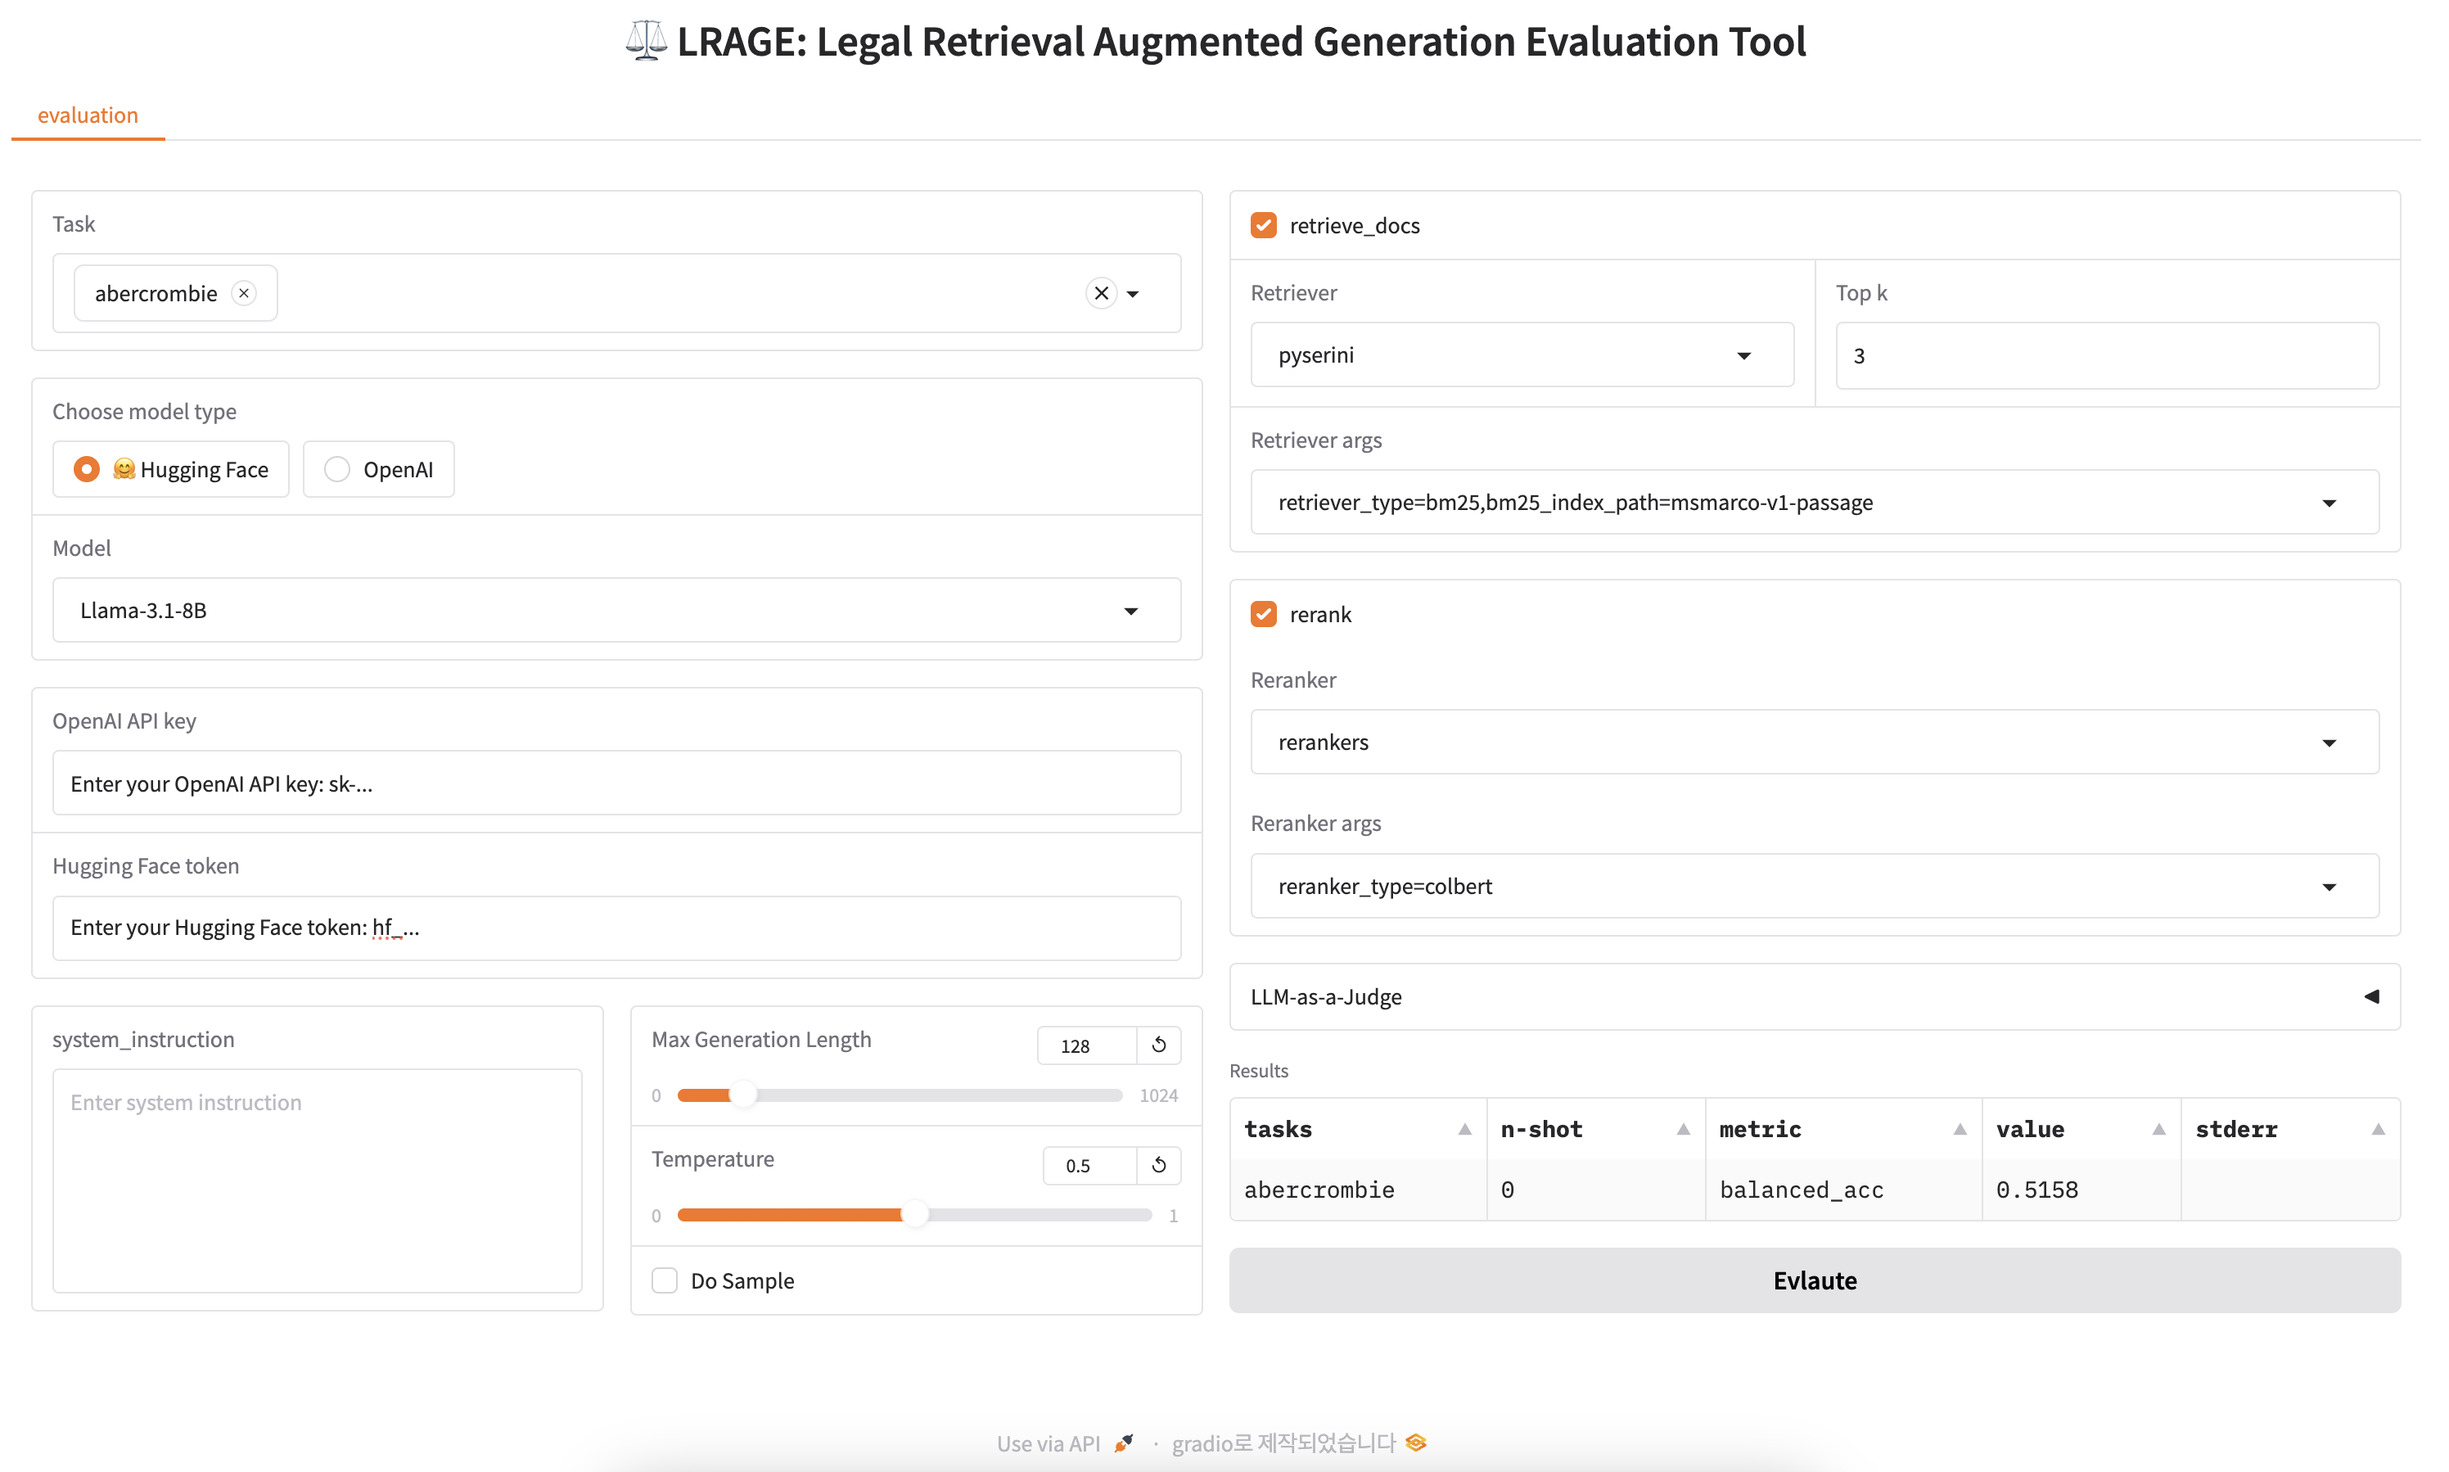
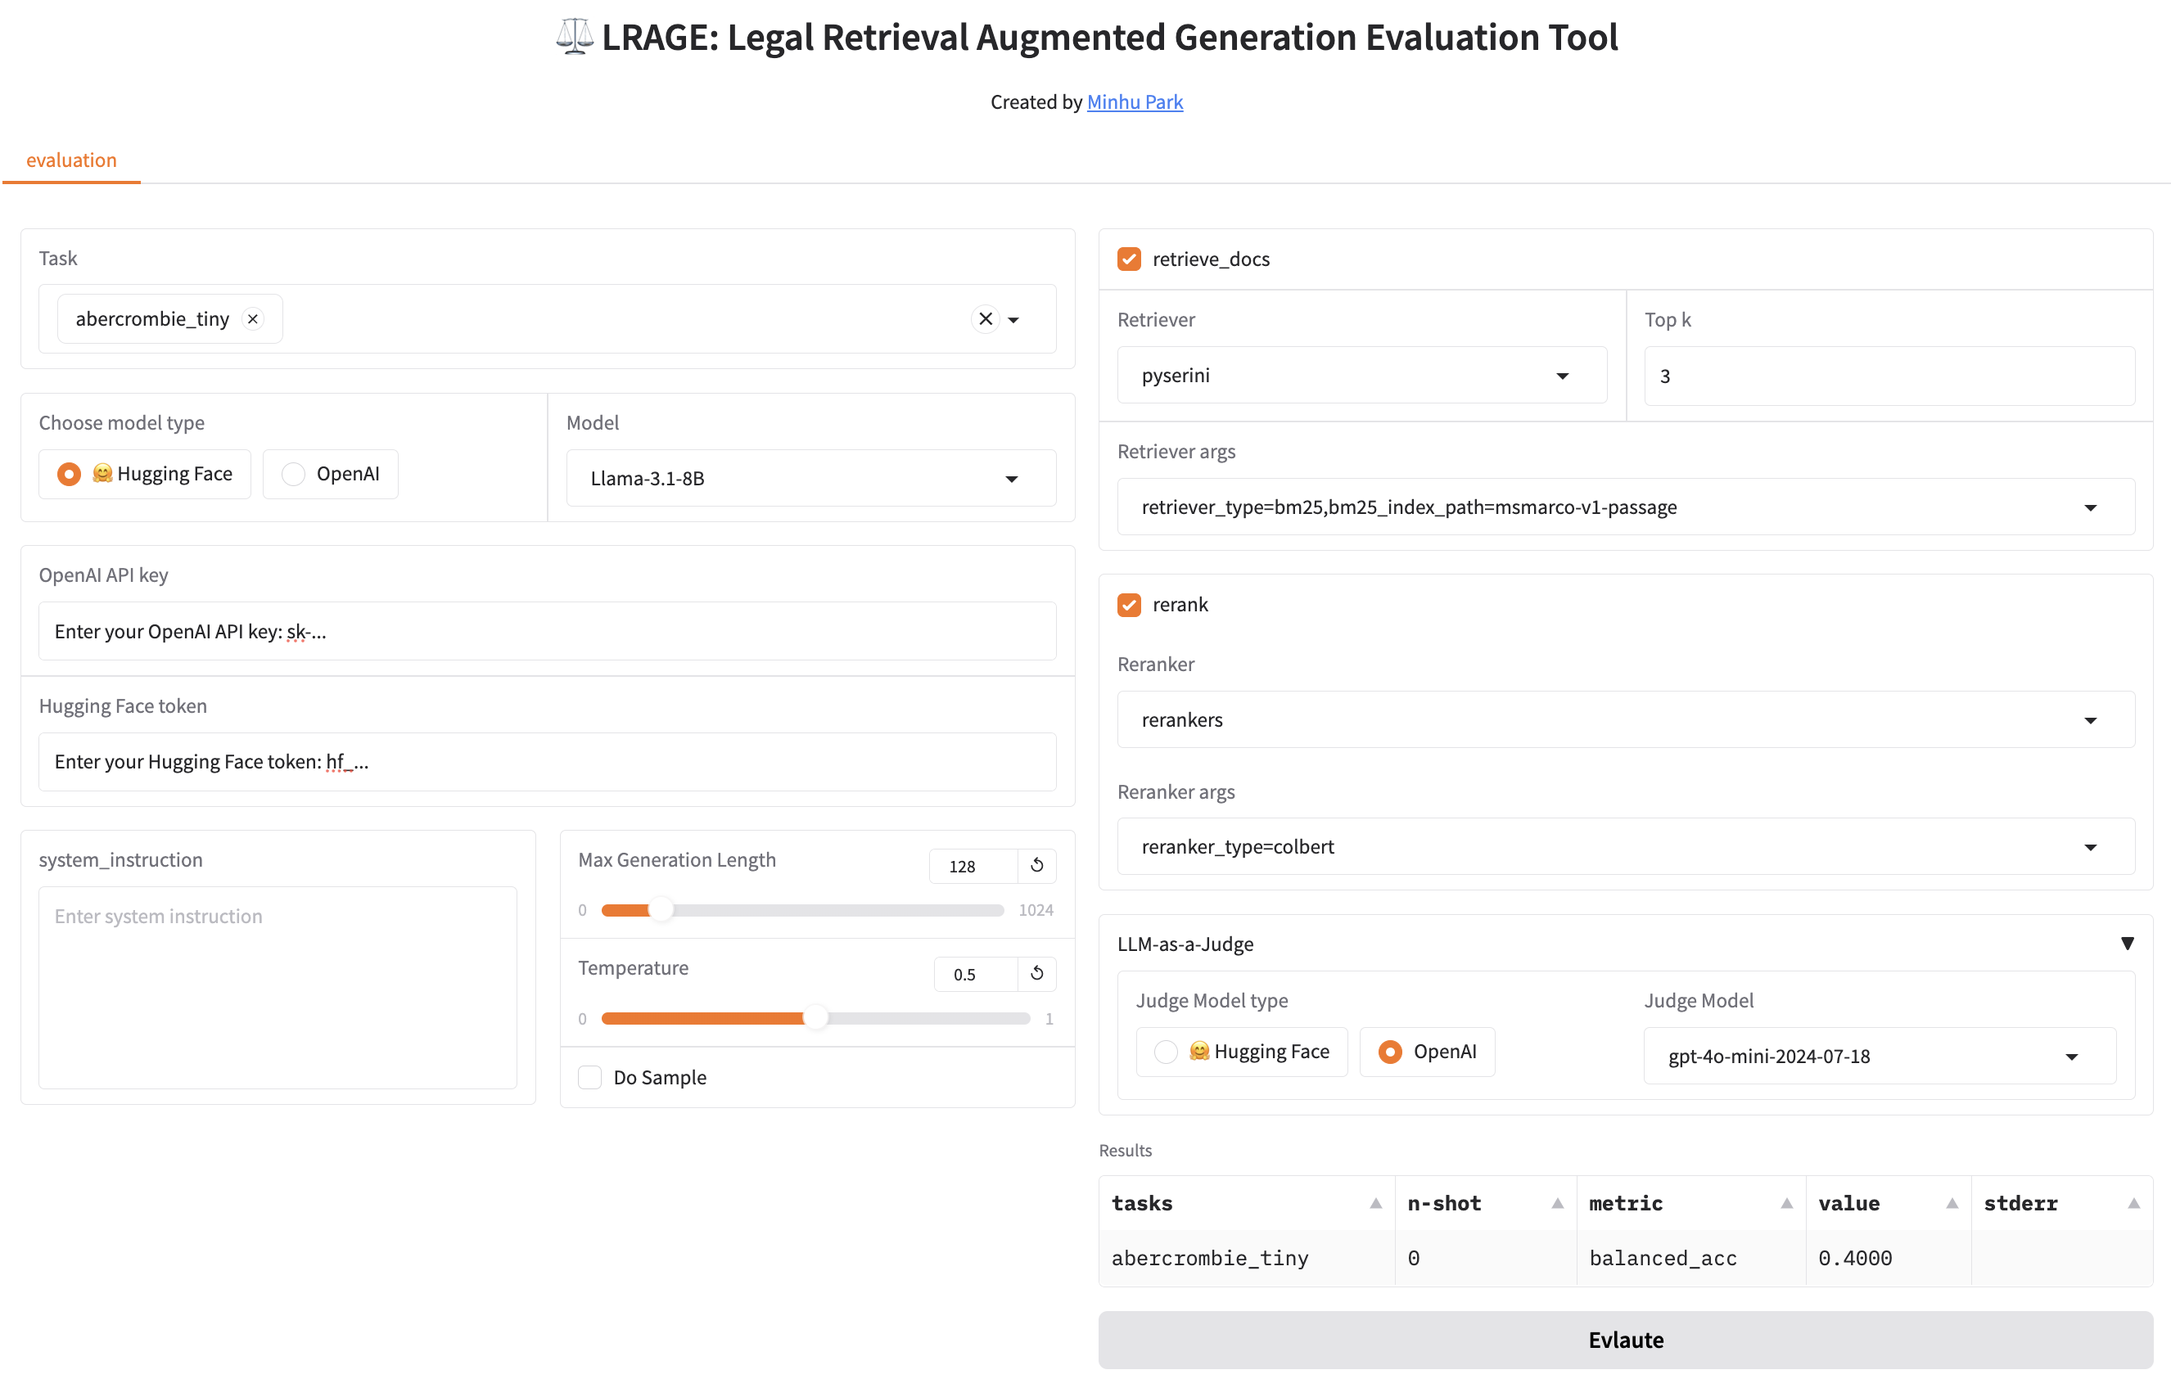
add retriever args, gui update

diff --git a/lrage/gui/lrage_gui.py b/lrage/gui/lrage_gui.py
@@ -22,9 +22,14 @@ if __name__ == '__main__':
 
     with gr.Blocks(title="⚖ LRAGE") as demo:
         gr.Markdown(
-            """<h1 style='text-align: center'>⚖ LRAGE: Legal Retrieval Augmented Generation Evaluation Tool</h1>""",
+            """<h1 style='text-align: center'>⚖ LRAGE: Legal Retrieval Augmented Generation Evaluation Tool</h1>
+            <p style='text-align: center'>
+                Created by <a href="https://github.com/hoorangyee/LRAGE" target="_blank">Minhu Park</a>
+            </p>
+            """,
             elem_id="title"
         )
+        
         with gr.Tab(label='evaluation'):
             with gr.Row():
                 with gr.Column():
@@ -34,15 +39,16 @@ if __name__ == '__main__':
                             multiselect=True)
                     
                     with gr.Group():
-                        model = gr.Radio(
-                            choices=lm_eval_avil_model_types, 
-                            label="Choose model type")
-                        model_args = gr.Dropdown(
-                            lm_eval_avil_model_args,
-                            value=None,
-                            label="Model",
-                            scale=1)
-                        model.change(update_dropdown, inputs=model, outputs=model_args)
+                        with gr.Row():
+                            model = gr.Radio(
+                                choices=lm_eval_avil_model_types, 
+                                label="Choose model type")
+                            model_args = gr.Dropdown(
+                                lm_eval_avil_model_args,
+                                value=None,
+                                label="Model",
+                                scale=1)
+                            model.change(update_dropdown, inputs=model, outputs=model_args)
 
                     with gr.Group():
                     
@@ -135,11 +141,10 @@ if __name__ == '__main__':
                         )
 
                     with gr.Accordion(label="LLM-as-a-Judge", open=False):
-                        with gr.Column():
-                            judge_model = gr.Dropdown(
-                                value=None,
-                                label="Judge Model type", 
-                                choices=lm_eval_avil_model_types)
+                        with gr.Row():
+                            judge_model = gr.Radio(
+                                choices=lm_eval_avil_model_types,
+                                label="Judge Model type")
                             judge_model_args = gr.Dropdown(
                                 lm_eval_avil_model_args,
                                 value=None,
